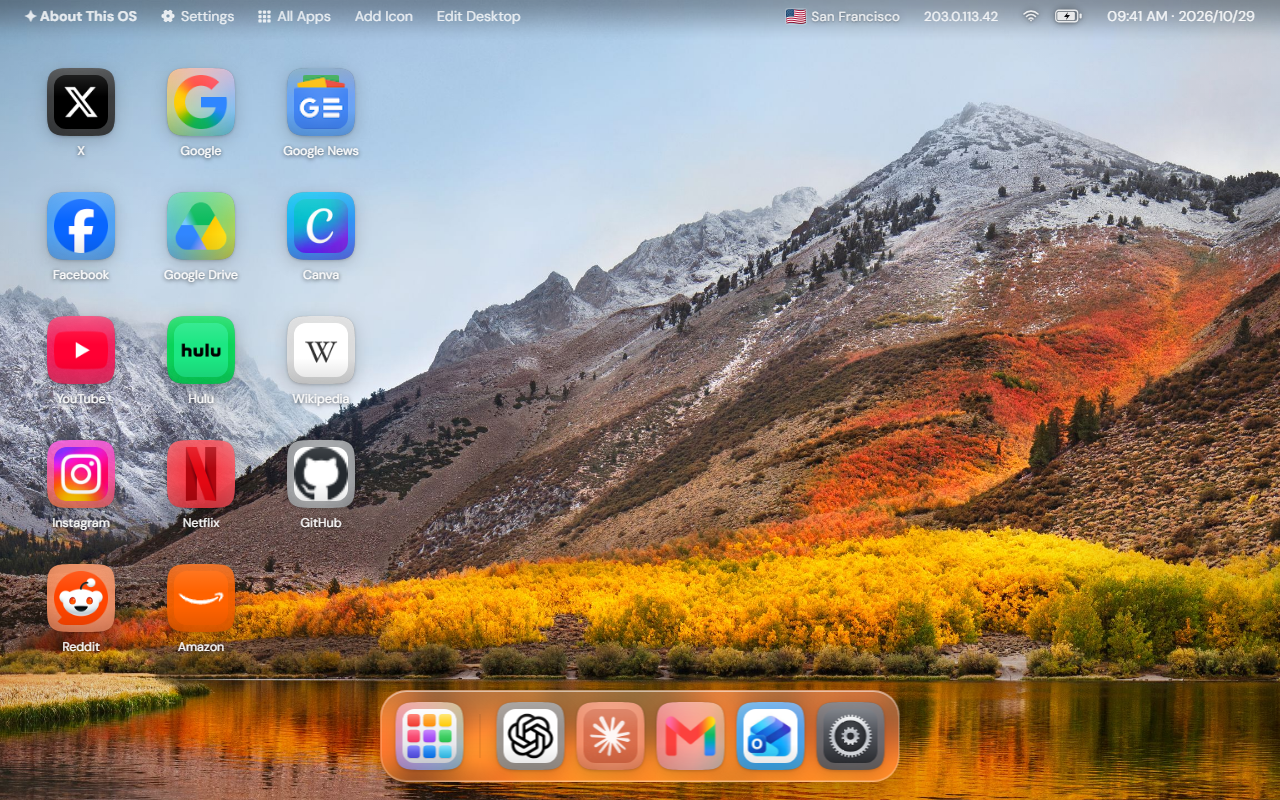
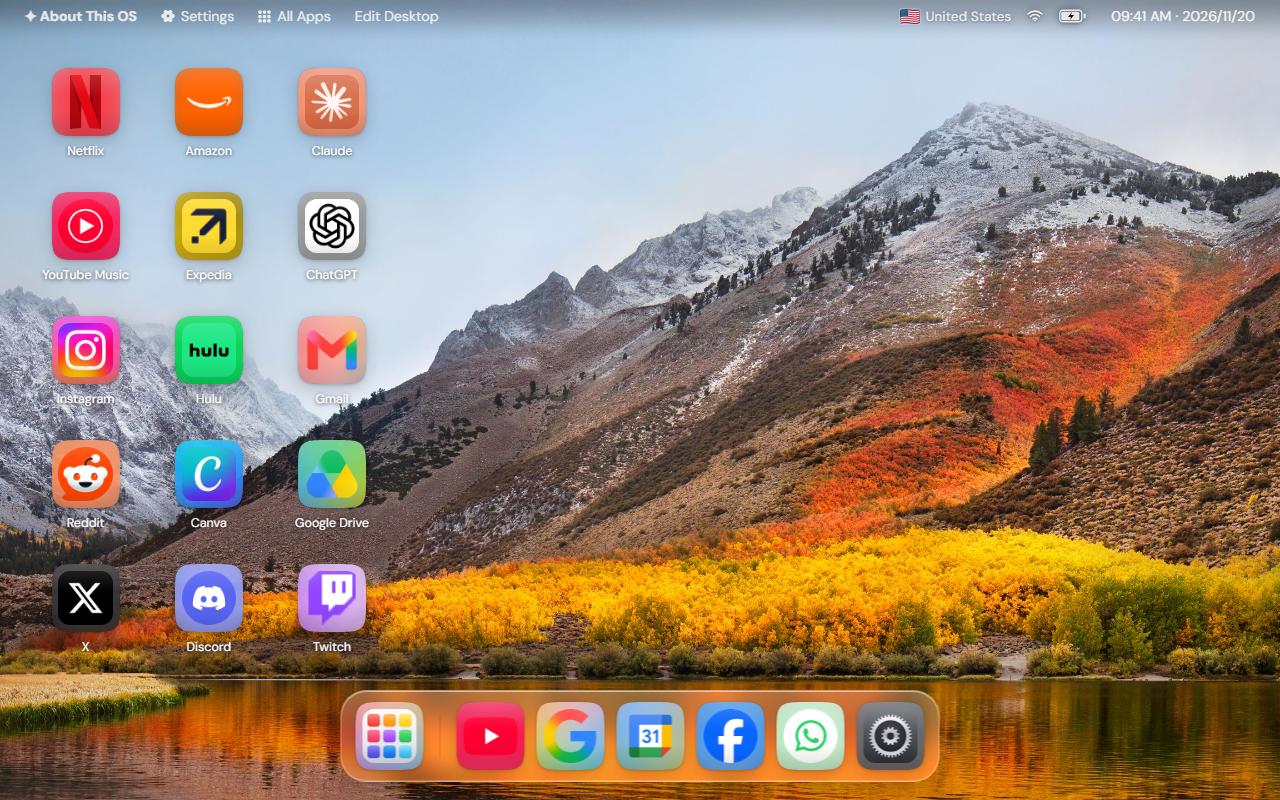
Store images for 1.6.0
The All Apps launcher, Show country, and the new default desktop. The
search tile's desktop is captured at 2.6x, tall enough for the grid's
five rows, so it matches screenshot 1.

diff --git a/store-listing/generator/render.py b/store-listing/generator/render.py
@@ -42,10 +42,11 @@ SHOTS = [
 ]
 
 # The search tile's desktop: the sample desktop on High Sierra, captured at the
-# tile's own shape (440x280, scaled 2.5x), at a size where all its icons
-# fit above the dock. The country chip is off here, since
-# at this scale it would only clutter the menu bar.
-TILE_DESKTOP = (1100, 700)
+# tile's own shape (440x280, scaled 2.6x), tall enough for the grid's five
+# rows above the dock (grid.js), so its icons sit as they do in screenshot 1.
+# The country chip is off here, since at this scale it would only clutter
+# the menu bar.
+TILE_DESKTOP = (1144, 728)
 
 # What the location service answers in the captures, instead of the truth.
 FAKE_PLACE = {'success': True, 'country': 'United States', 'country_code': 'US'}
